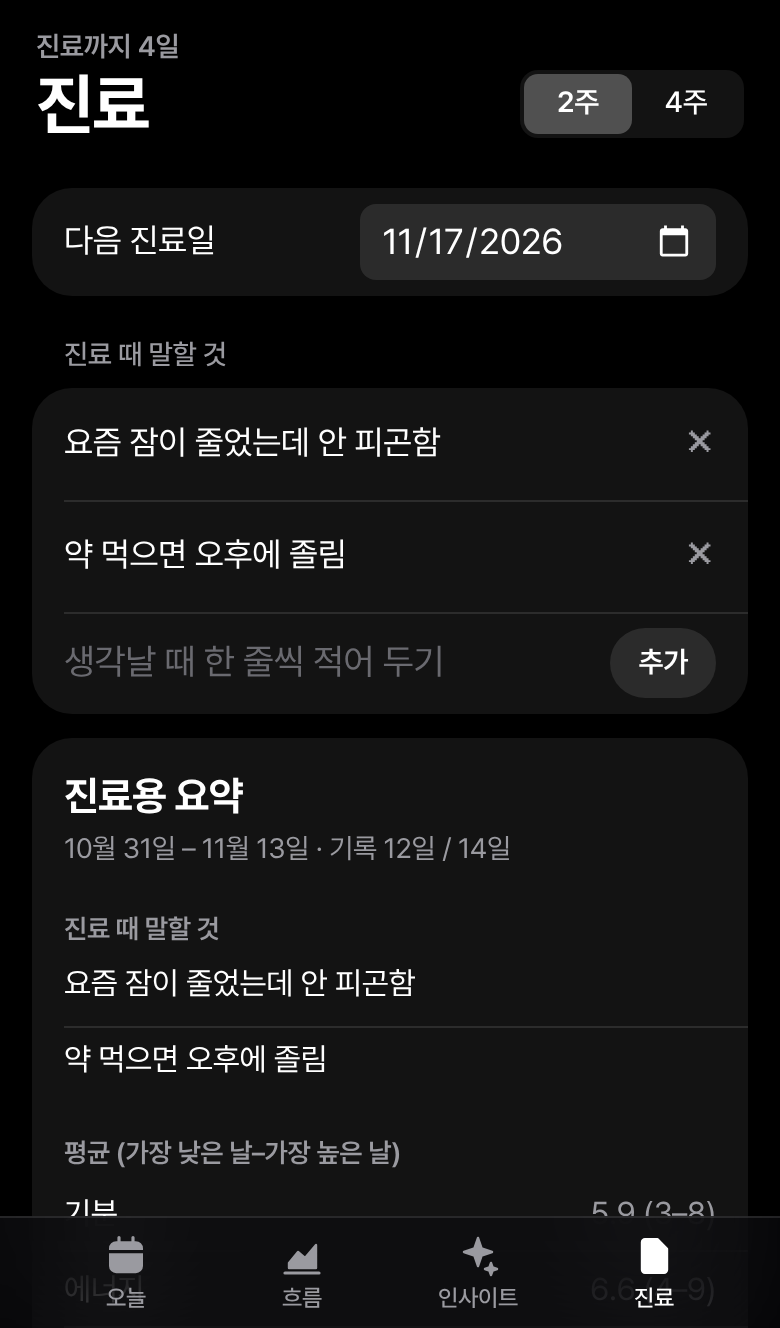
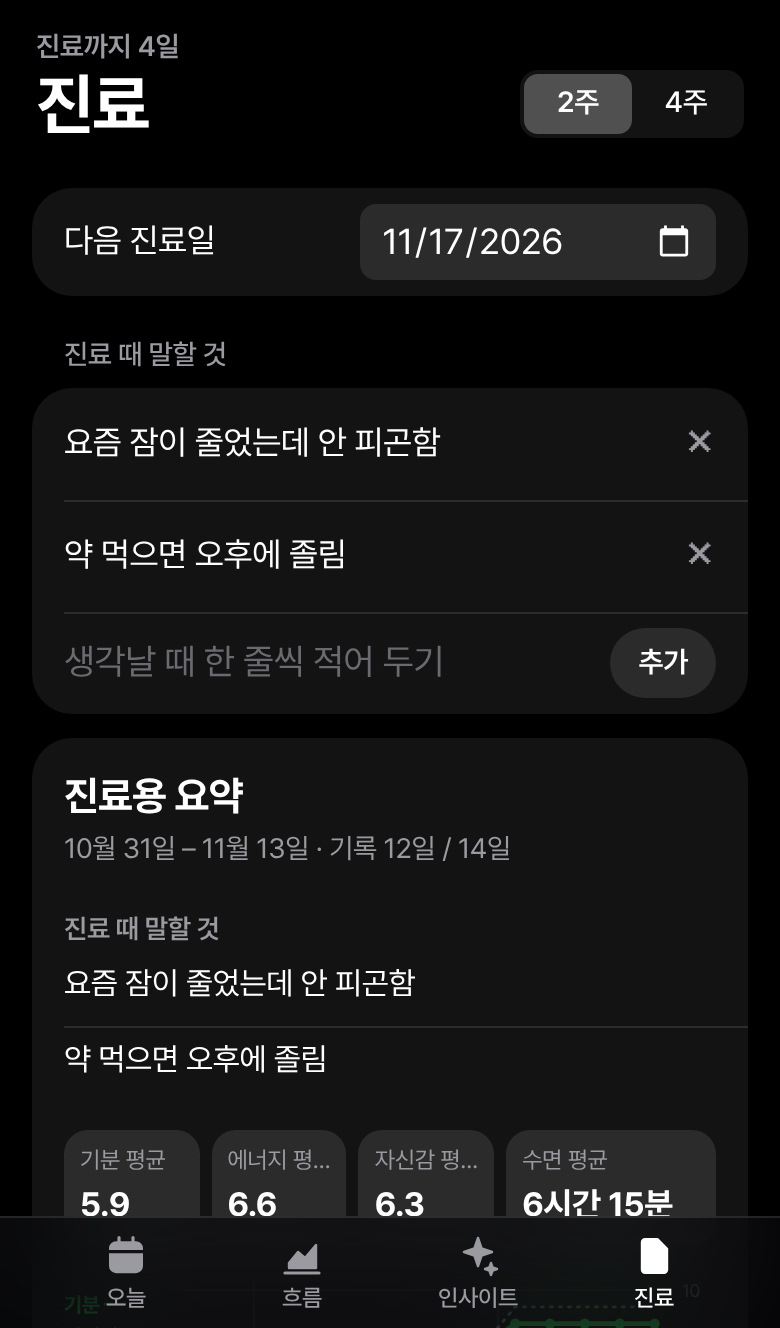
Tide: turn the clinic summary into a single at-a-glance picture
Days run left to right; mood and energy lines, sleep bars (short nights dark), symptom dots sized by level, medication marks and the period band stack on the same axis. Averages become four stat boxes and notable items become chips.

Claude-Session: https://claude.ai/code/session_01Du4KAy7crrN67i73oW7iBF

diff --git a/mood/js/views/clinic.js b/mood/js/views/clinic.js
@@ -1,12 +1,13 @@
 // 진료 화면: 다음 진료일, 진료 때 말할 것, 진료용 요약 (최근 2주/4주를 한 장으로)
-import { summary } from '../analysis.js';
+import { SHORT_SLEEP, summary } from '../analysis.js';
 import { DISCLAIMER, LEVELS } from '../constants.js';
 import { durText, md, parse, today } from '../dates.js';
 import { app, esc } from '../dom.js';
 import { F, T } from '../i18n.js';
+import { medKey, medsFor } from '../meds.js';
 import { clinicView } from '../state.js';
 import { db } from '../store.js';
-import { li } from './today.js';
+import { tone } from '../theme.js';
 
 // 다음 진료일과 말할 것 목록. { next: 'YYYY-MM-DD' 또는 '', notes: ['…', …] }
 export const clinicData = () => (db.clinic || (db.clinic = { next: '', notes: [] }));
@@ -23,13 +24,85 @@ function nextText() {
   return left > 0 ? F('진료까지 {0}일', left) : left === 0 ? T('오늘 진료') : '';
 }
 
-// 작은 선 그래프. 값이 없는 날은 건너뛰고 잇는다. 색은 글자색을 따라가서 인쇄할 때도 그대로 나온다.
-function spark(values, max, w) {
-  const H = 34, step = w / values.length;
-  const pts = values.map((v, i) => (v == null ? null : `${(step * (i + 0.5)).toFixed(1)},${(3 + (1 - Math.min(v, max) / max) * (H - 6)).toFixed(1)}`)).filter(Boolean);
-  return `<svg width="${w}" height="${H}" aria-hidden="true"><line x1="0" x2="${w}" y1="${H - 0.5}" y2="${H - 0.5}" stroke="currentColor" opacity=".15"/>
-    ${pts.length > 1 ? `<polyline points="${pts.join(' ')}" fill="none" stroke="currentColor" stroke-width="1.8" stroke-linejoin="round" stroke-linecap="round"/>`
-    : pts.length ? `<circle cx="${pts[0].split(',')[0]}" cy="${pts[0].split(',')[1]}" r="2.5" fill="currentColor"/>` : ''}</svg>`;
+// 한눈에 보는 그림: 날짜를 가로로 맞춰 놓고 위에서부터
+//   기분(굵은 선)·에너지(가는 선) → 수면 막대(5시간 미만은 진하게) → 증상(동그라미가 클수록 심함) → 약(먹은 날 칸) → 생리(띠)
+// 를 한 장에 쌓는다. 색은 CSS 변수를 따라가서 다크·라이트·인쇄에서 그대로 읽힌다.
+function figure(s, width) {
+  const n = s.dates.length, L = 60, R = 22, pw = width - L - R, col = pw / n;
+  const cx = (i) => L + col * (i + 0.5);
+  const ink = 'style="fill:var(--ink)"', mutedText = 'style="fill:var(--muted)"';
+  const accent = tone('mood', 10) || 'var(--ink)';
+  const label = (y, text, style) => `<text x="0" y="${y}" font-size="10.5" ${style || mutedText}>${text}</text>`;
+  let out = '', y = 4;
+
+  // 1. 기분 · 에너지 (0~10)
+  const SH = 84, top = y, sy = (v) => top + (1 - v / 10) * SH;
+  [0, 5, 10].forEach((v) => {
+    out += `<line x1="${L}" x2="${L + pw}" y1="${sy(v)}" y2="${sy(v)}" style="stroke:var(--line)"/><text x="${L + pw + 5}" y="${sy(v) + 3.5}" font-size="9" ${mutedText}>${v}</text>`;
+  });
+  const line = (key, style, dots) => {
+    const pts = s.days.map((e, i) => (e && e[key] != null ? [cx(i), sy(e[key])] : null)).filter(Boolean);
+    const path = pts.length > 1 ? `<polyline points="${pts.map((p) => p.map((v) => v.toFixed(1)).join(',')).join(' ')}" fill="none" stroke-linejoin="round" stroke-linecap="round" ${style}/>` : '';
+    return path + (dots || pts.length === 1 ? pts.map((p) => `<circle cx="${p[0].toFixed(1)}" cy="${p[1].toFixed(1)}" r="${n > 14 ? 1.8 : 2.6}" style="fill:${accent}"/>`).join('') : '');
+  };
+  out += line('energy', 'style="stroke:var(--muted)" stroke-width="1.4" stroke-dasharray="1 3.5"', false);
+  out += line('mood', `style="stroke:${accent}" stroke-width="2.4"`, true);
+  out += `<text x="0" y="${top + 11}" font-size="10.5" font-weight="700" style="fill:${accent}">${T('기분')} ━</text>${label(top + 27, `${T('에너지')} ┄`)}`;
+  y = top + SH + 14;
+
+  // 2. 수면 (0~12시간). 5시간 미만인 밤은 진하게, 점선은 이 기간 평균
+  const BH = 40, base = y + BH, bw = Math.max(2.5, Math.min(col - 3, 12));
+  s.days.forEach((e, i) => {
+    if (!e || e.sleepMin == null) return;
+    const h = Math.max(2, Math.min(e.sleepMin, 720) / 720 * BH), short = e.sleepMin < SHORT_SLEEP;
+    out += `<rect x="${(cx(i) - bw / 2).toFixed(1)}" y="${(base - h).toFixed(1)}" width="${bw.toFixed(1)}" height="${h.toFixed(1)}" rx="${Math.min(bw / 2, 3).toFixed(1)}" style="fill:${short ? 'var(--ink)' : 'var(--faint)'}"/>`;
+  });
+  out += `<line x1="${L}" x2="${L + pw}" y1="${base}" y2="${base}" style="stroke:var(--line)"/>`;
+  if (s.sleep) { const ya = base - Math.min(s.sleep.avg, 720) / 720 * BH; out += `<line x1="${L}" x2="${L + pw}" y1="${ya.toFixed(1)}" y2="${ya.toFixed(1)}" stroke-dasharray="2 4" style="stroke:var(--muted)"/>`; }
+  out += label(y + 24, T('수면'));
+  y = base + 16;
+
+  // 3. 증상: 동그라미 크기가 정도 (없음은 안 그린다)
+  const rmax = Math.max(2, Math.min(col / 2 - 0.5, 7.5));
+  [['dep', T('우울')], ['elev', T('고조')], ['anx', T('불안')], ['si', T('죽고 싶은 생각')]].forEach(([key, name]) => {
+    out += label(y + 4, name);
+    s.days.forEach((e, i) => { if (e && e[key]) out += `<circle cx="${cx(i).toFixed(1)}" cy="${y}" r="${(rmax * e[key] / 4).toFixed(1)}" ${ink}/>`; });
+    y += 19;
+  });
+  y += 3;
+
+  // 4. 약: 먹은 날에 칸, 오른쪽 끝에 먹은 날 수
+  const mw = Math.max(2.5, Math.min(col - 3, 9));
+  s.meds.forEach(([m, count]) => {
+    out += label(y + 4, esc(m.name.length > 5 ? `${m.name.slice(0, 5)}…` : m.name));
+    s.dates.forEach((d, i) => {
+      if (medsFor(d).some((x) => medKey(x) === medKey(m))) out += `<rect x="${(cx(i) - mw / 2).toFixed(1)}" y="${y - 4}" width="${mw.toFixed(1)}" height="8" rx="2" ${ink}/>`;
+    });
+    out += `<text x="${L + pw + 5}" y="${y + 3.5}" font-size="9" ${mutedText}>${count}</text>`;
+    y += 16;
+  });
+
+  // 5. 생리: 이어진 날은 하나의 띠
+  if (s.period.length) {
+    out += label(y + 4, T('생리'));
+    for (let i = 0; i < n; i++) {
+      if (!(s.days[i] && s.days[i].period)) continue;
+      let j = i;
+      while (j + 1 < n && s.days[j + 1] && s.days[j + 1].period) j++;
+      out += `<rect x="${(L + col * i + 1.5).toFixed(1)}" y="${y - 3}" width="${(col * (j - i + 1) - 3).toFixed(1)}" height="6" rx="3" ${ink}/>`;
+      i = j;
+    }
+    y += 16;
+  }
+
+  // 날짜 눈금: 주마다(월요일) 세로줄과 날짜
+  let weeks = '';
+  s.dates.forEach((d, i) => {
+    if (parse(d).getDay() !== 1 && i !== 0) return;
+    if (i) weeks += `<line x1="${(L + col * i).toFixed(1)}" x2="${(L + col * i).toFixed(1)}" y1="0" y2="${y - 6}" style="stroke:var(--line)"/>`;
+    weeks += `<text x="${(L + col * i + 2).toFixed(1)}" y="${y + 6}" font-size="9" ${mutedText}>${shortDate(d)}</text>`;
+  });
+  return `<svg id="sum-fig" width="${width}" height="${y + 10}" role="img" aria-label="${T('진료용 요약')}">${weeks}${out}</svg>`;
 }
 
 // 요약에 들어갈 줄들: [이름, 내용]. 화면과 복사용 글이 같은 줄을 쓴다.
@@ -50,20 +123,24 @@ function summaryRows(s) {
 }
 
 export function summaryHtml(weeks) {
-  const s = summary(weeks), r = summaryRows(s), talk = clinicData().notes;
-  const w = Math.max(120, Math.min(app.clientWidth, 480) - 32 - 32 - 62);
-  const block = (title, rows) => (rows.length ? `<div class="sum-h">${title}</div>${rows.map(([k, v]) => li(esc(k), esc(v))).join('')}` : '');
-  const chart = (name, key, max) => `<div class="sp"><span>${name}</span>${spark(s.days.map((e) => (e ? e[key] : null)), max, w)}</div>`;
+  const s = summary(weeks), talk = clinicData().notes;
+  const width = Math.max(240, Math.min(app.clientWidth, 480) - 32 - 32);
+  const stat = (name, st, fmt) => `<div class="sum-stat"><span>${name}</span><b>${st ? fmt(st.avg) : '–'}</b></div>`;
+  // 눈에 띄는 것은 짧은 딱지로: 날짜는 그림에서 보이니 며칠인지만 적는다
+  const chips = [
+    [T('우울 높음 이상'), s.high.dep.length], [T('고조 높음 이상'), s.high.elev.length], [T('불안 높음 이상'), s.high.anx.length],
+    [T('죽고 싶은 생각'), s.high.si.length], [T('5시간 미만 수면'), s.shortSleep.length], ...s.signs,
+  ].filter(([, c]) => c).map(([name, c]) => `<span class="sum-chip">${esc(name)} <b>${F('{0}일', c)}</b></span>`).join('');
   return `
     <div class="sum-top"><b>${T('진료용 요약')}</b><span>${md(parse(s.dates[0]))} – ${md(parse(s.dates[s.dates.length - 1]))} · ${F('기록 {0}일 / {1}일', s.got.length, s.dates.length)}</span></div>
     ${talk.length ? `<div class="sum-h">${T('진료 때 말할 것')}</div>${talk.map((x) => `<div class="li say">${esc(x)}</div>`).join('')}` : ''}
-    ${block(T('평균 (가장 낮은 날–가장 높은 날)'), r.averages)}
-    <div class="sum-h">${T('흐름')}</div>
-    ${chart(T('기분'), 'mood', 10)}${chart(T('에너지'), 'energy', 10)}${chart(T('수면'), 'sleepMin', 720)}
-    ${block(T('눈에 띄는 날'), r.flags)}
+    <div class="sum-stats">
+      ${stat(T('기분 평균'), s.mood, one)}${stat(T('에너지 평균'), s.energy, one)}${stat(T('자신감 평균'), s.conf, one)}${stat(T('수면 평균'), s.sleep, (m) => durText(Math.round(m)))}
+    </div>
+    <div class="sum-fig">${figure(s, width)}</div>
+    <p class="sum-key">${T('기분은 굵은 선, 에너지는 점선 · 수면 막대가 진하면 5시간 미만 · 증상은 동그라미가 클수록 심한 날')}</p>
+    ${chips ? `<div class="sum-chips">${chips}</div>` : ''}
     ${s.signals.length ? `<div class="sum-h">${T('지금 떠 있는 신호')}</div>${s.signals.map((x) => `<div class="li say">${esc(x)}</div>`).join('')}` : ''}
-    ${block(T('기분이 높았던 날 체크한 항목'), r.signs)}
-    ${block(T('약 먹은 날'), r.meds)}
     ${s.notes.length ? `<div class="sum-h">${T('메모')}</div>${s.notes.map(([d, note]) => `<div class="li say note"><small>${shortDate(d)}</small> ${esc(note)}</div>`).join('')}` : ''}
     <p class="sum-foot">${DISCLAIMER}</p>`;
 }

diff --git a/mood/app.css b/mood/app.css
@@ -335,9 +335,6 @@ input[type=date] { border: 0; outline: none; background: var(--card2); color: va
 #summary .li { min-height: 38px; padding: 6px 16px; font-size: calc(14px * var(--fs, 1.12)); }
 #summary .li .lv { max-width: 62%; overflow-wrap: anywhere; }
 #summary .li.say small { color: var(--muted); margin-right: 4px; }
-.sp { display: flex; align-items: center; gap: 10px; padding: 3px 16px; font-size: calc(13px * var(--fs, 1.12)); }
-.sp span { width: 52px; flex: none; color: var(--muted); }
-.sp svg { display: block; }
 .sum-foot { color: var(--faint); font-size: calc(11px * var(--fs, 1.12)); padding: 14px 16px 16px; margin: 0; }
 
 /* 인쇄·PDF: 요약 한 장만, 흰 바탕에 검은 글씨로 */
@@ -366,3 +363,16 @@ input[type=date] { border: 0; outline: none; background: var(--card2); color: va
 .lock-pad button { width: 74px; height: 74px; border-radius: 50%; background: var(--card); color: var(--text); font-family: var(--round); font-size: 28px; font-weight: 500; text-align: center; }
 .lock-pad button:active { background: var(--fill); }
 .lock-pad .lock-txt { background: none; font-family: inherit; font-size: calc(14px * var(--fs, 1.12)); color: var(--muted); }
+
+/* 진료용 요약: 숫자 네 칸, 한눈에 보는 그림, 딱지 */
+.sum-stats { display: grid; grid-template-columns: 1fr 1fr 1fr 1.55fr; gap: 6px; padding: 14px 16px 4px; }
+.sum-stat { background: var(--card2); border-radius: 12px; padding: 8px 8px 9px; min-width: 0; }
+.sum-stat span { display: block; color: var(--muted); font-size: calc(10.5px * var(--fs, 1.12)); white-space: nowrap; overflow: hidden; text-overflow: ellipsis; }
+.sum-stat b { display: block; font-family: var(--round); font-size: calc(15px * var(--fs, 1.12)); margin-top: 2px; white-space: nowrap; }
+.sum-fig { padding: 14px 16px 0; }
+.sum-fig svg { display: block; overflow: visible; font-family: inherit; }
+.sum-key { color: var(--faint); font-size: calc(10.5px * var(--fs, 1.12)); margin: 6px 16px 0; line-height: 1.45; }
+.sum-chips { display: flex; flex-wrap: wrap; gap: 6px; padding: 12px 16px 2px; }
+.sum-chip { background: var(--card2); border-radius: 999px; padding: 5px 11px; font-size: calc(12.5px * var(--fs, 1.12)); color: var(--muted); }
+.sum-chip b { color: var(--text); font-weight: 600; }
+@media print { .sum-stat, .sum-chip { border: 1px solid #ccc; } }

diff --git a/mood/tests/smoke.js b/mood/tests/smoke.js
@@ -198,7 +198,9 @@ function seed() {
 
   // 5-2. 진료 탭: 다음 진료일, 말할 것, 요약
   await page.click('[data-tab=clinic]');
-  check('진료용 요약에 눈에 띄는 날과 약이 나옴', (await text('#summary')).includes('고조 높음 이상') && (await text('#summary')).includes('브린텔릭스 10mg') && (await text('#summary')).includes('5시간 미만 수면'));
+  check('진료용 요약에 그림과 눈에 띄는 날, 약이 나옴', (await page.$$('#sum-fig circle')).length > 10 && (await page.$$('#sum-fig rect')).length > 10
+    && (await text('#summary')).includes('고조 높음 이상') && (await text('#sum-fig')).includes('브린텔릭스') && (await text('#summary')).includes('5시간 미만 수면'));
+  check('요약 그림이 카드 밖으로 안 넘침', await page.evaluate(() => document.querySelector('#sum-fig').getBoundingClientRect().right <= document.querySelector('#summary').getBoundingClientRect().right));
   await page.fill('#c-note', '약 먹으면 오후에 졸림'); await page.press('#c-note', 'Enter');
   check('말할 것 추가 (엔터)', (await store()).clinic.notes[0] === '약 먹으면 오후에 졸림' && (await text('#summary')).includes('약 먹으면 오후에 졸림'));
   await page.fill('#c-next', dayAgo(-3));

diff --git a/mood/js/i18n.js b/mood/js/i18n.js
@@ -50,6 +50,11 @@ const DICT = {
   '추가': 'Add',
   '진료용 요약': 'Summary for your appointment',
   '평균 (가장 낮은 날–가장 높은 날)': 'Average (lowest–highest day)',
+  '기분 평균': 'Mood avg',
+  '에너지 평균': 'Energy avg',
+  '자신감 평균': 'Confidence avg',
+  '수면 평균': 'Sleep avg',
+  '기분은 굵은 선, 에너지는 점선 · 수면 막대가 진하면 5시간 미만 · 증상은 동그라미가 클수록 심한 날': 'Mood is the solid line, energy the dotted line · dark sleep bars are under 5 hours · larger symptom dots mean a harder day',
   '눈에 띄는 날': 'Days that stand out',
   '지금 떠 있는 신호': 'Current signals',
   '기분이 높았던 날 체크한 항목': 'Items checked on high days',

diff --git a/mood/sw.js b/mood/sw.js
@@ -1,7 +1,7 @@
 // 오프라인에서도 열리도록 앱 파일을 저장해 둔다.
 // 인터넷이 될 때는 항상 최신 파일을 먼저 받아오고, 안 될 때만 저장본을 쓴다.
 // 앱 파일을 바꿔서 올릴 때마다 CACHE 숫자를 하나 올린다. js/ 에 파일을 더하면 JS 목록에도 더한다.
-const CACHE = 'tide-v44';
+const CACHE = 'tide-v45';
 const JS = ['main', 'config', 'i18n', 'constants', 'store', 'dates', 'theme', 'icons', 'dom', 'state', 'meds', 'analysis', 'files', 'render', 'swipe', 'lock',
   'views/today', 'views/trend', 'views/insight', 'views/record', 'views/settings', 'views/clinic', 'views/notes'];
 const FILES = ['./', 'index.html', 'app.css', 'manifest.webmanifest',

diff --git a/mood/js/config.js b/mood/js/config.js
@@ -2,4 +2,4 @@
 export const KEY = 'tide.v1', OLD_KEY = 'harugyeol.v1';
 
 // 설정 화면 맨 아래에 보이는 번호. 올릴 때마다 sw.js의 CACHE 숫자와 같이 하나 올린다.
-export const VERSION = 44;
+export const VERSION = 45;
